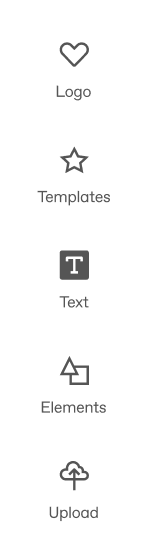
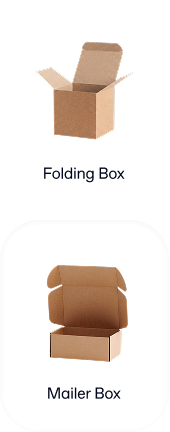
Add matching left/right editor overlays to Live 3D preview tile
Position both overlay images symmetrically (96px from each edge,
same size), and update the overlay assets.

Changed region(s): [[0.2148, 0.0602, 0.7517, 0.5718], [0.2685, 0.6019, 0.7785, 0.9329]]

diff --git a/index.html b/index.html
@@ -1668,10 +1668,18 @@
   .statement-tile-live3d-overlay {
     display: block;
     position: absolute;
+    bottom: 80px;
+    right: 96px;
+    width: 96px;
+    height: auto;
+  }
+
+  .statement-tile-live3d-overlay-left {
+    display: block;
+    position: absolute;
     bottom: 24px;
-    right: 4%;
-    transform: translateX(-40px);
-    width: 224px;
+    left: 96px;
+    width: 96px;
     height: auto;
   }
 
@@ -2851,6 +2859,7 @@
           </div>
           <div class="statement-tile-media">
             <video class="statement-tile-live3d-video" src="box-rotation.mp4" autoplay muted loop playsinline></video>
+            <img class="statement-tile-live3d-overlay-left" src="editor-live-preview-2.png" alt="">
             <img class="statement-tile-live3d-overlay" src="editor-live-preview-1.png" alt="">
           </div>
         </div>